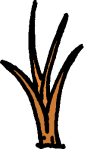
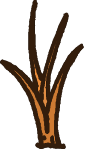
spear (it's sick)

Changed region(s): [[0.0, 0.0, 0.84, 1.0]]

diff --git a/neon/chunk.cs b/neon/chunk.cs
@@ -16,8 +16,8 @@ namespace neon
         public int CurrentChunkX { get; private set; }
         public int CurrentChunkY { get; private set; }
 
-        public int ScreenX { get; protected set; } = 0;
-        public int ScreenY { get; protected set; } = 0;
+        public int ScreenX { get;  set; } = 0;
+        public int ScreenY { get;  set; } = 0;
 
         public const int UnitSize = 8;
 
@@ -29,8 +29,11 @@ namespace neon
         public MapObject Hero { get; protected set; }
         private bool HitInspect = false;
 
-        public WorldChunk(ContentManager contentManager)
+        public WorldChunk(ContentManager contentManager, int currentChunkX, int currentChunkY)
         {
+            CurrentChunkX = currentChunkX;
+            CurrentChunkY = currentChunkY;
+
             sand = contentManager.Load<Texture2D>("sand");
             
             var rnd = new Random();
@@ -40,6 +43,9 @@ namespace neon
 
             Objects.Add(new Hero(contentManager, HitMap.Size/2, HitMap.Size/2, this));
             Hero = Objects[0];
+
+            if (CurrentChunkX == 0 && CurrentChunkY == 0)
+                Objects.Add(new Idol(contentManager, HitMap.Size / 2, 60f, this));
 
             Objects.Add(new Tersol(contentManager, new Vector2(HitMap.Size / 2 + 10, HitMap.Size / 2),
                 this));
@@ -64,11 +70,11 @@ namespace neon
 
         public void Update(ContentManager contentManager)
         {
-            //  ScreenX -= ((int)(Hero.Position.X * UnitSize)+ScreenX-960) / 32;
-            //  ScreenY -= ((int)(Hero.Position.Y * UnitSize)+ScreenY-540) / 18;
+            ScreenX -= ((int)(Hero.Position.X * UnitSize)+ScreenX-960) / 16;
+            ScreenY -= ((int)(Hero.Position.Y * UnitSize)+ScreenY-540) / 16;
             
-            ScreenX = -(int)(Hero.Position.X * UnitSize - 960);
-            ScreenY = -(int)(Hero.Position.Y * UnitSize - 540);
+            //ScreenX = -(int)(Hero.Position.X * UnitSize - 960);
+            //ScreenY = -(int)(Hero.Position.Y * UnitSize - 540);
 
             ScreenX = Math.Min(0, ScreenX);
             ScreenY = Math.Min(0, ScreenY);
@@ -126,8 +132,8 @@ namespace neon
 
             if (HitInspect)
             {
-                for (int i = 0; i < HitMap.Size; i++)
-                    for (int j = 0; j < HitMap.Size; j++)
+                for (int i = 0; i < HitMap.Size*2; i++)
+                    for (int j = 0; j < HitMap.Size*2; j++)
                     {
                         var vl = HitMap.GetValue(i, j);
 
@@ -135,7 +141,7 @@ namespace neon
                         {
                             spriteBatch.Draw(pxl, new Vector2(ScreenX + i * UnitSize, ScreenY+ j * UnitSize),
                                 null, Color.Green, 0f, new Vector2(0, 0),
-                                UnitSize*2, SpriteEffects.None, 0f);
+                                UnitSize, SpriteEffects.None, 0f);
                         }
                     }
             }

diff --git a/neon/hero.cs b/neon/hero.cs
@@ -24,7 +24,7 @@ namespace neon
             new Tuple<int, int>(0, -1), new Tuple<int, int>(1, -1), new Tuple<int, int>(-1, -1)},
             "hero", worldChunk)
         {
-           // GunInHand = new Colt(contentManager, new Vector2(x, y), new Vector2(0f, 0f), worldChunk);
+            GunInHand = new Spear(contentManager, new Vector2(x, y-2), Movement, worldChunk);
             Action = "wa";
         }
 
@@ -33,16 +33,28 @@ namespace neon
             var ks = Keyboard.GetState();
 
             if (ks.IsKeyDown(Keys.W))
+            {
+               // worldChunk.ScreenY--;
                 ChangeMovement(0, -Speed);
+            }
 
             if (ks.IsKeyDown(Keys.S))
+            {
+               // worldChunk.ScreenY++;
                 ChangeMovement(0, Speed);
+            }
 
             if (ks.IsKeyDown(Keys.A))
+            {
+                //worldChunk.ScreenX--;
                 ChangeMovement(-Speed, 0);
+            }
 
             if (ks.IsKeyDown(Keys.D))
+            {
+                //worldChunk.ScreenX++;
                 ChangeMovement(Speed, 0);
+            }
 
             var ms = Mouse.GetState();
 
@@ -50,7 +62,8 @@ namespace neon
             {
                 Vector2 screen = worldChunk.GetScreenPosition(this);
 
-                float dir = Game1.GetDirection(new Vector2(ms.X, ms.Y), screen);
+                float dir = Game1.GetDirection(new Vector2(ms.X, ms.Y), 
+                    new Vector2(screen.X, screen.Y+Position.Y-GunInHand.Position.Y));
                 dir += (float)Math.PI * 2;
                 dir %= (float)(Math.PI * 2);
 
@@ -82,11 +95,11 @@ namespace neon
                     }
                 }
 
-                GunInHand.Position=Position;
+                GunInHand.Position=new Vector2(Position.X, Position.Y-5);
 
                 if (ms.LeftButton == ButtonState.Pressed)
                 { 
-                    GunInHand.ShootInDirection(contentManager, dir, worldChunk);
+                    GunInHand.ShootInDirection(contentManager, dir, worldChunk, this);
                 }
             }
 
@@ -97,7 +110,7 @@ namespace neon
 
             base.Update(contentManager, worldChunk);
         }
-
+        
         public override void Draw(SpriteBatch spriteBatch, int x, int y, Color color, float depth)
         {
             base.Draw(spriteBatch, x, y, color, depth);
@@ -106,7 +119,7 @@ namespace neon
             {
                 Texture2D whatToDraw = Texture.GetCurrentFrame();
 
-                GunInHand.Draw(spriteBatch, x, y, color, depth+0.000001f);
+                GunInHand.Draw(spriteBatch, x, y-5*WorldChunk.UnitSize, color, depth+0.000001f);
             }
         }
     }

diff --git a/neon/guns.cs b/neon/guns.cs
@@ -18,7 +18,7 @@ namespace neon
                 new List<int> { 15, 15, 15, 15, 15, 300})
         { }
 
-        public override void ShootInDirection(ContentManager contentManager, float Direction, WorldChunk worldChunk)
+        public override void ShootInDirection(ContentManager contentManager, float Direction, WorldChunk worldChunk, MapObject owner)
         {
             if (TimeTillShot > 0)
                 return;
@@ -27,7 +27,29 @@ namespace neon
                 new Vector2(Position.X + (float)Math.Cos(Direction) * 5f, Position.Y + (float)Math.Sin(Direction) * 5f),
                 new Vector2((float)Math.Cos(Direction), (float)Math.Sin(Direction)), worldChunk));
 
-            base.ShootInDirection(contentManager, Direction, worldChunk);
+            base.ShootInDirection(contentManager, Direction, worldChunk, owner);
+        }
+    }
+
+    public class Spear : Gun
+    {
+        public Spear(ContentManager contentManager, Vector2 position, Vector2 movement, WorldChunk worldChunk) :
+            base(contentManager, position, movement, 10f, new List<Tuple<int, int>> { }, "spear", worldChunk,
+                new List<int> { 40 })
+        { }
+        
+        public override void ShootInDirection(ContentManager contentManager, float Direction, WorldChunk worldChunk, MapObject owner)
+        {
+            if (TimeTillShot > 0)
+                return;
+
+            worldChunk.Objects.Add(new SpearBullet(contentManager,
+                new Vector2(Position.X + (float)Math.Cos(Direction) * 20f, Position.Y + (float)Math.Sin(Direction) * 20f),
+                new Vector2((float)Math.Cos(Direction)*0.1f, (float)Math.Sin(Direction)*0.1f), worldChunk));
+
+            owner.ChangeMovement((float)Math.Cos(Direction) * 10f, (float)Math.Sin(Direction) * 10f);
+
+            base.ShootInDirection(contentManager, Direction, worldChunk, owner);
         }
     }
 }

diff --git a/neon/bullet.cs b/neon/bullet.cs
@@ -74,6 +74,22 @@ namespace neon
             ChangeMovement(-Movement.X, -Movement.Y);
         }
 
+        public override void Draw(SpriteBatch spriteBatch, int x, int y, Color color, float depth)
+        {
+            Texture2D whatToDraw = Texture.GetCurrentFrame();
+
+            float Rotation = Game1.GetDirection(Movement, new Vector2(0, 0));
+
+            if (Rotation >= Math.PI * 1.5 || Rotation < Math.PI / 2)
+                spriteBatch.Draw(whatToDraw, new Vector2(x, y - whatToDraw.Height / 2), null, color,
+                    Rotation,
+                    new Vector2(whatToDraw.Width / 2, whatToDraw.Height / 2), 1f, SpriteEffects.None, depth);
+            else
+                spriteBatch.Draw(whatToDraw, new Vector2(x, y - whatToDraw.Height / 2), null, color,
+                    Rotation,
+                    new Vector2(whatToDraw.Width / 2, whatToDraw.Height / 2), 1f, SpriteEffects.FlipVertically, depth);
+        }
+
         public virtual Bullet Copy(ContentManager contentManager, WorldChunk worldChunk)
         {
             return null;

diff --git a/neon/obstacles.cs b/neon/obstacles.cs
@@ -11,6 +11,24 @@ using System.Runtime.InteropServices;
 
 namespace neon
 {
+    public class Idol:MapObject
+    {
+        public Idol(ContentManager contentManager, float x, float y, WorldChunk worldChunk) : 
+            base(contentManager, new Vector2(x, y),
+            new Vector2(0f, 0f), 10000000f,
+            new HitboxFabricator().CreateHitbox(@"hitboxes\idol.png"),
+            "idol_0_", 0, worldChunk)
+        { }
+
+        public override void Draw(SpriteBatch spriteBatch, int x, int y, Color color, float depth)
+        {
+            Texture2D whatToDraw = Texture.GetCurrentFrame();
+
+            spriteBatch.Draw(whatToDraw, new Vector2(x - whatToDraw.Width / 2, y - whatToDraw.Height+27), null, color, 0f,
+                new Vector2(0, 0), 1f, SpriteEffects.None, depth);
+        }
+    }
+
     public class Spike:MapObject
     {
         public Spike(ContentManager contentManager, float x, float y, WorldChunk worldChunk):base(contentManager, new Vector2(x, y), 

diff --git a/neon/bullets.cs b/neon/bullets.cs
@@ -24,4 +24,11 @@ namespace neon
                 new Vector2(Movement.X, Movement.Y), worldChunk);
         }
     }
+    public class SpearBullet : Bullet
+    {
+        public SpearBullet(ContentManager contentManager, Vector2 position, Vector2 movement, WorldChunk worldChunk) :
+            base(contentManager, position, movement, 10000f, 20, new HitboxFabricator().CreateHitbox(@"hitboxes\spearhit.png"),
+                "spearhit", worldChunk, 9)
+        { }
+    }
 }

diff --git a/neon/Gun.cs b/neon/Gun.cs
@@ -25,7 +25,7 @@ namespace neon
             ShootingPauses = shootingPauses;
         }
 
-        public virtual void ShootInDirection(ContentManager contentManager, float Direction, WorldChunk worldChunk)
+        public virtual void ShootInDirection(ContentManager contentManager, float Direction, WorldChunk worldChunk, MapObject owner)
         {
             TimeTillShot = ShootingPauses[CurrentPause];
 

diff --git a/neon/Game1.cs b/neon/Game1.cs
@@ -49,7 +49,7 @@ namespace neon
             // TODO: Add your initialization logic here
             Console.WriteLine();
 
-            worldChunk = new WorldChunk(Content);
+            worldChunk = new WorldChunk(Content, 0, 0);
 
             base.Initialize();
         }
